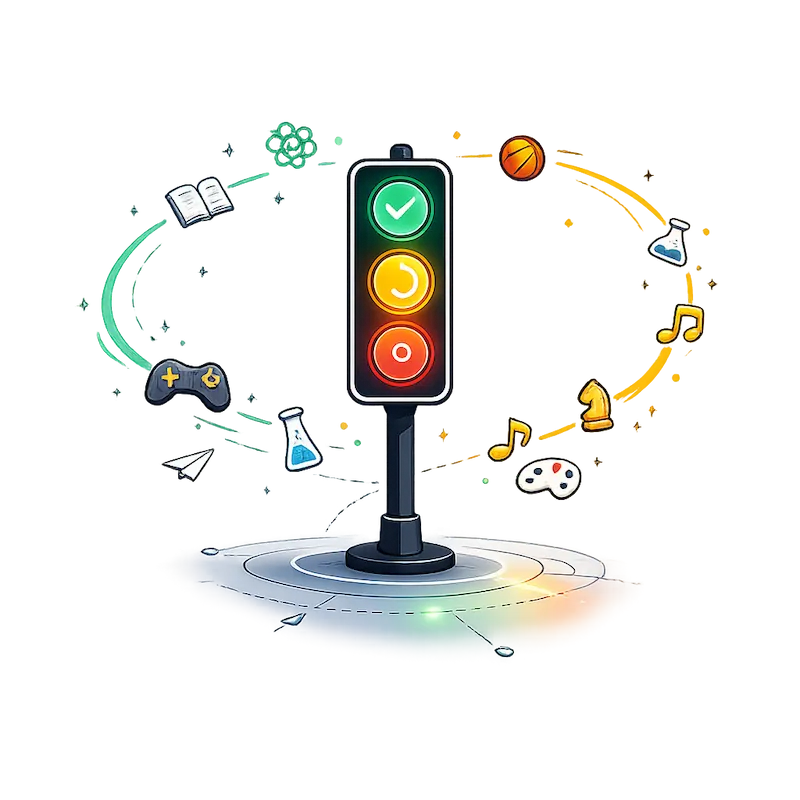
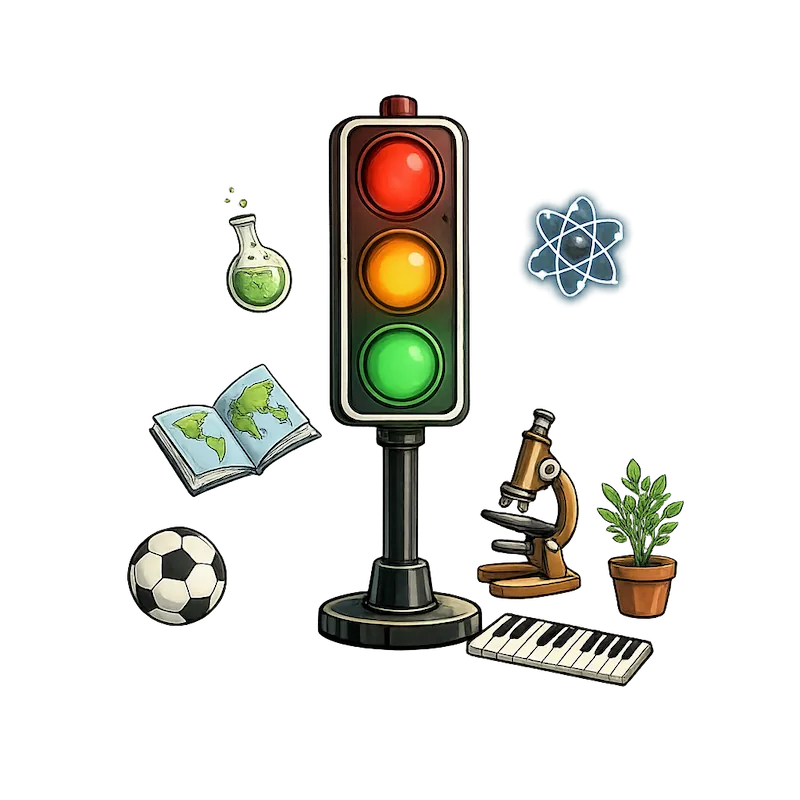
Custom Hero (#13)
* feat: add compact `Hero` variant

* feat: add custom 404

* feat: landing page image

Changed region(s): [[0.0938, 0.0938, 0.9062, 0.875]]

diff --git a/src/content.config.ts b/src/content.config.ts
@@ -4,7 +4,14 @@ import { docsSchema, i18nSchema } from '@astrojs/starlight/schema'
 import { z } from 'astro/zod'
 
 export const collections = {
-	docs: defineCollection({ loader: docsLoader(), schema: docsSchema() }),
+	docs: defineCollection({
+		loader: docsLoader(),
+		schema: docsSchema({
+			extend: z.object({
+				heroCompact: z.boolean().default(false),
+			}),
+		}),
+	}),
 	i18n: defineCollection({
 		type: 'data',
 		schema: i18nSchema({

diff --git a/src/styles/global.css b/src/styles/global.css
@@ -13,22 +13,6 @@
 } */
 
 @layer components {
-	.hero {
-		@media (min-width: 50rem) {
-			grid-template-columns: repeat(2, auto);
-			justify-content: center;
-			padding-block: clamp(1rem, calc(1rem + 10vmin), 2rem);
-
-			img {
-				block-size: 400px;
-			}
-
-			.tagline {
-				margin-inline-start: 0.5rem;
-			}
-		}
-	}
-
 	.sl-markdown-content {
 		container: markdown / inline-size;
 	}
